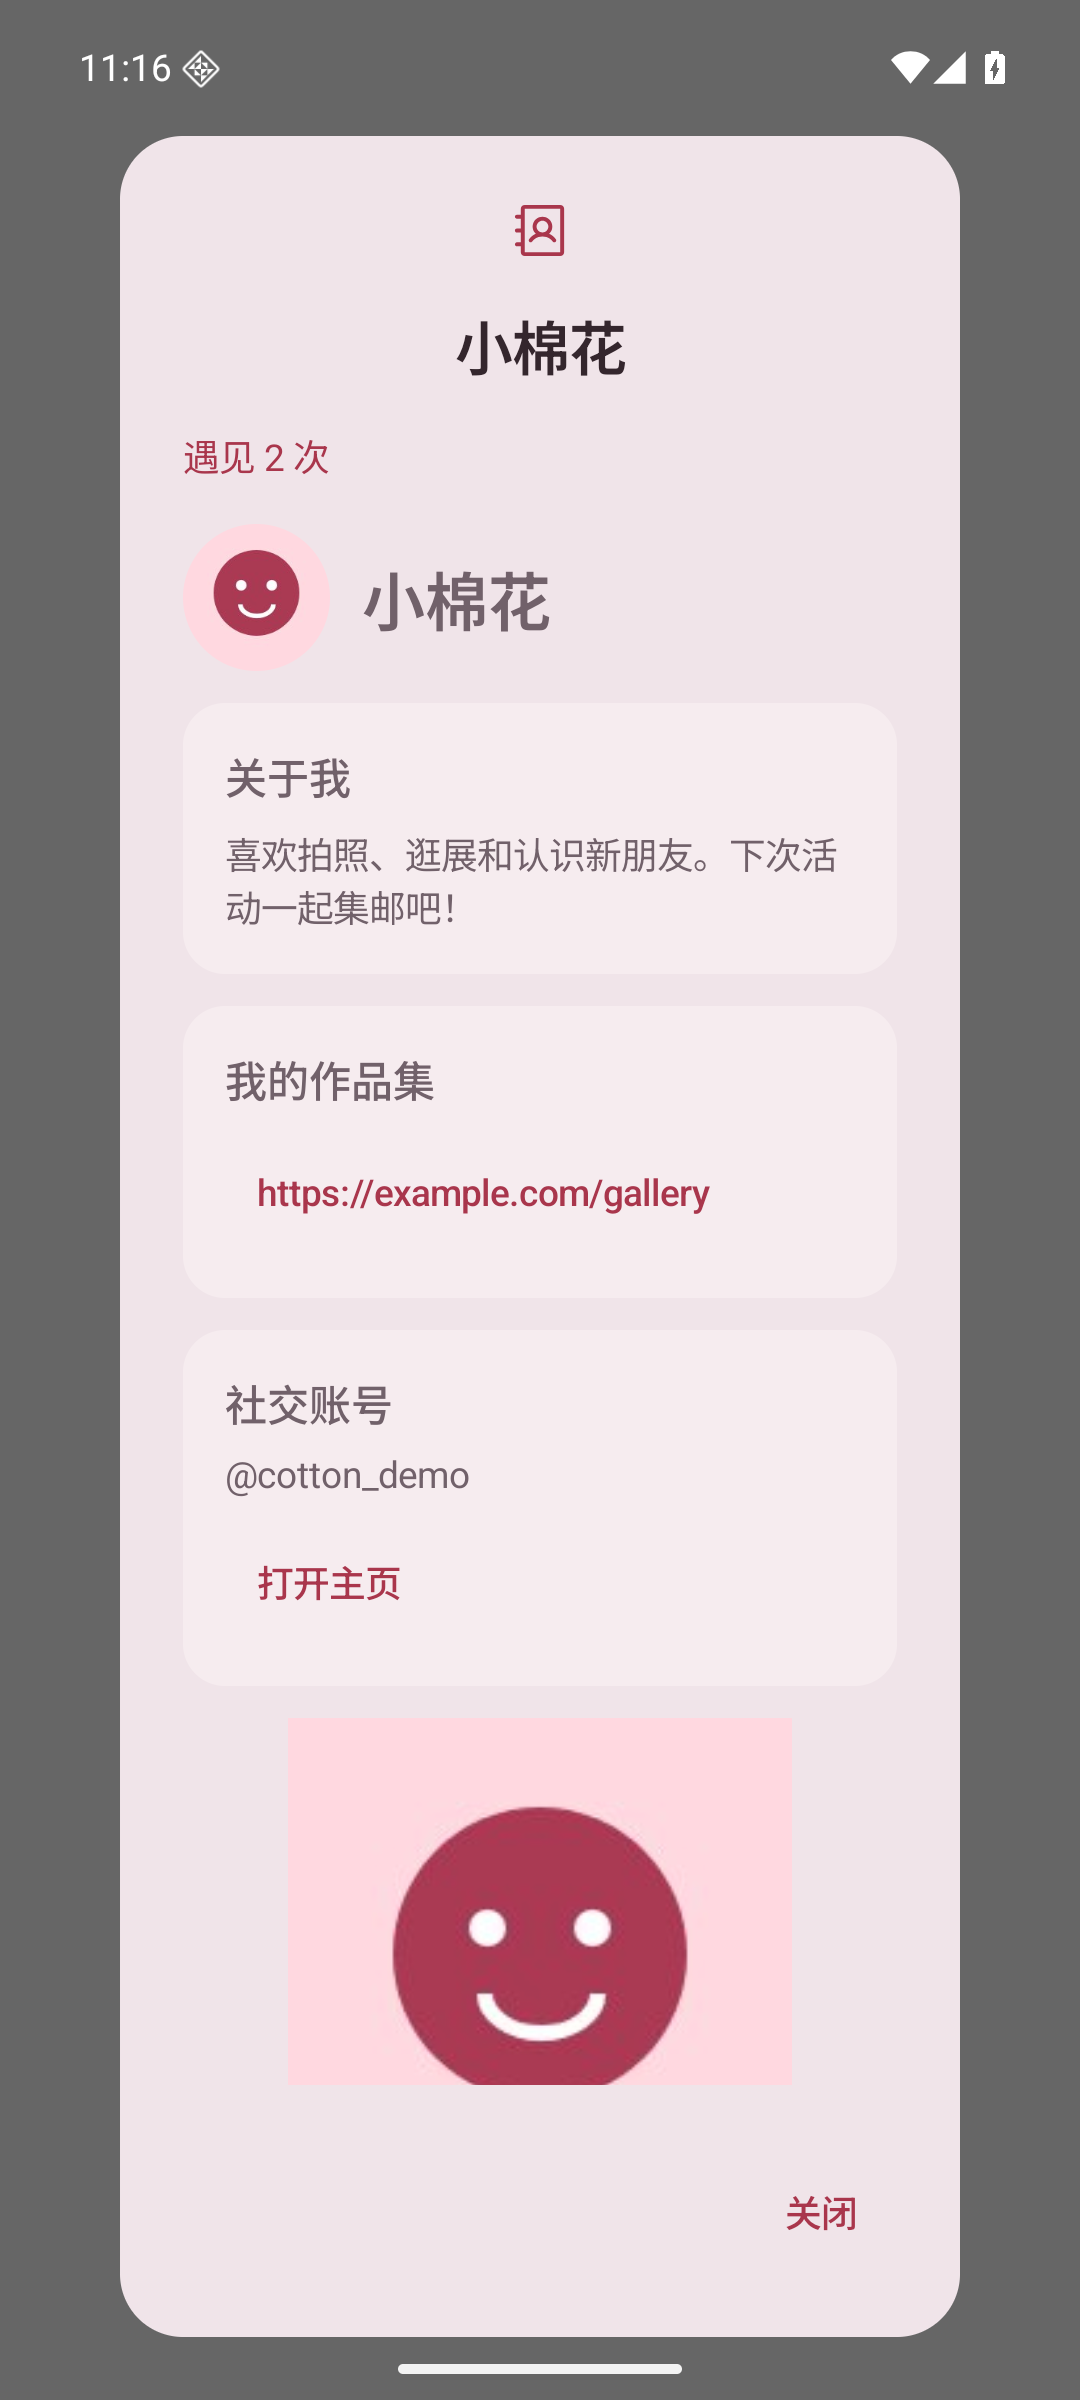
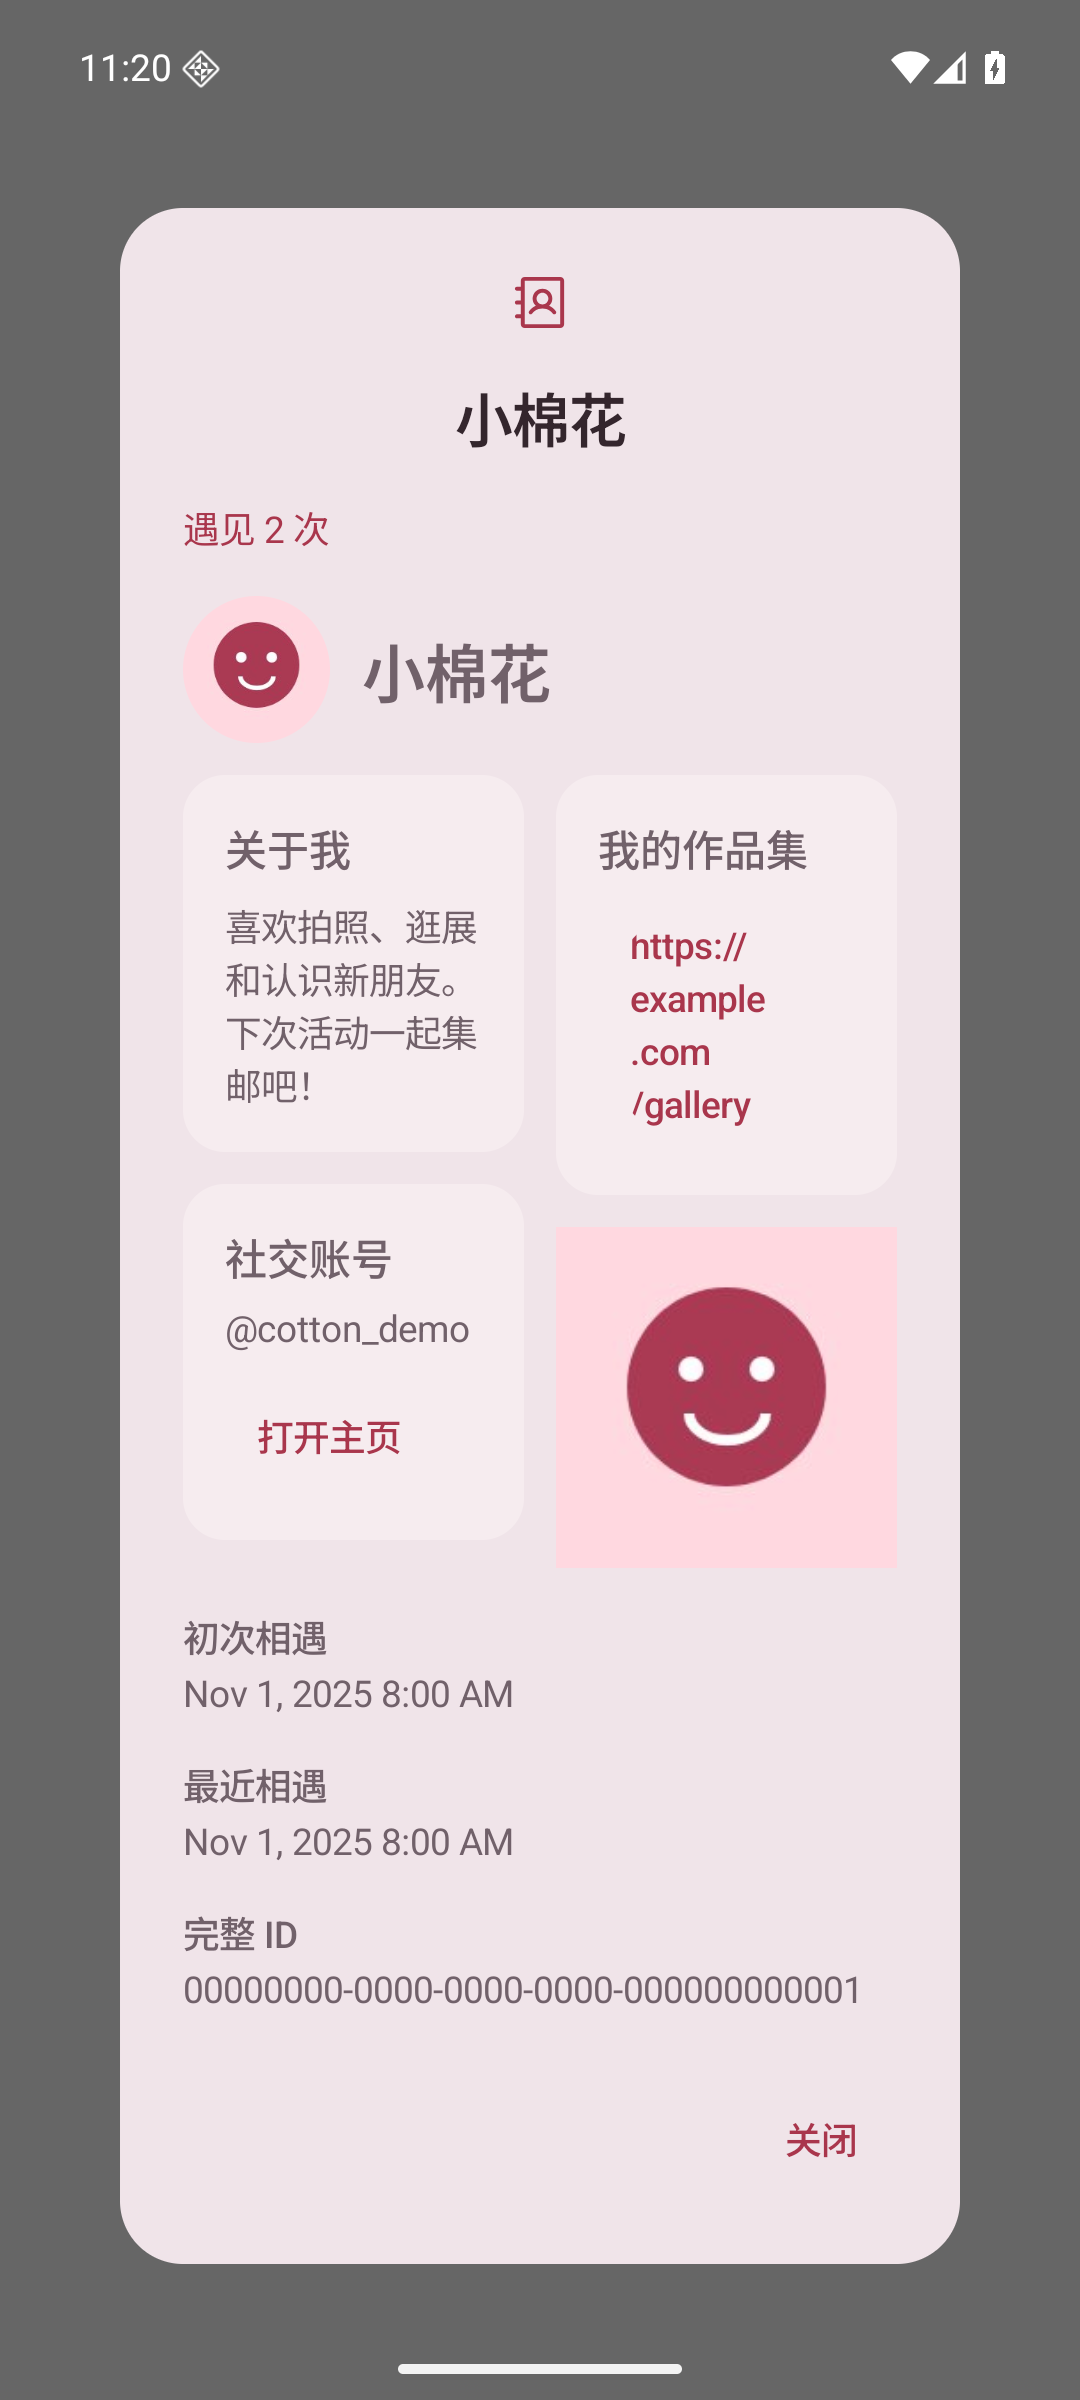
feat: 用户卡片内容采用自适应瀑布流

diff --git a/app/src/main/kotlin/app/pengwa/ui/UserCard.kt b/app/src/main/kotlin/app/pengwa/ui/UserCard.kt
@@ -46,17 +46,19 @@ internal fun UserCardContent(identity: Identity) {
             CardAvatar(identity)
             Text(identity.displayName, style = MaterialTheme.typography.titleLarge)
         }
-        identity.card.blocks.forEach { block ->
-            if (block.type == BlockType.Image) {
-                CardImage(block.image, block.title.ifBlank { "卡片图片" })
-            } else Surface(shape = MaterialTheme.shapes.medium, color = MaterialTheme.colorScheme.surfaceContainer) {
-                Column(Modifier.fillMaxWidth().padding(16.dp), verticalArrangement = Arrangement.spacedBy(8.dp)) {
-                    if (block.title.isNotBlank()) Text(block.title, style = MaterialTheme.typography.titleSmall)
-                    if (block.type != BlockType.Link) Text(block.text, style = MaterialTheme.typography.bodyMedium)
-                    val url = if (block.type == BlockType.Link) block.text else block.url
-                    if (CardCodec.validLink(url)) TextButton(onClick = {
-                        runCatching { uriHandler.openUri(url) }.onFailure { error = "无法打开链接，请检查是否安装浏览器" }
-                    }) { Text(if (block.type == BlockType.Social) "打开主页" else url) }
+        CardMasonry {
+            identity.card.blocks.forEach { block ->
+                if (block.type == BlockType.Image) {
+                    CardImage(block.image, block.title.ifBlank { "卡片图片" })
+                } else Surface(shape = MaterialTheme.shapes.medium, color = MaterialTheme.colorScheme.surfaceContainer) {
+                    Column(Modifier.fillMaxWidth().padding(16.dp), verticalArrangement = Arrangement.spacedBy(8.dp)) {
+                        if (block.title.isNotBlank()) Text(block.title, style = MaterialTheme.typography.titleSmall)
+                        if (block.type != BlockType.Link) Text(block.text, style = MaterialTheme.typography.bodyMedium)
+                        val url = if (block.type == BlockType.Link) block.text else block.url
+                        if (CardCodec.validLink(url)) TextButton(onClick = {
+                            runCatching { uriHandler.openUri(url) }.onFailure { error = "无法打开链接，请检查是否安装浏览器" }
+                        }) { Text(if (block.type == BlockType.Social) "打开主页" else url) }
+                    }
                 }
             }
         }

diff --git a/app/src/debug/kotlin/app/pengwa/ui/CustomCardPreview.kt b/app/src/debug/kotlin/app/pengwa/ui/CustomCardPreview.kt
@@ -48,15 +48,25 @@ private fun imageShapesCard() = Identity(UUID(0L, 1L), "小棉花", CardContent(
     CardBlock(BlockType.Image, "方形小图", image = sampleImage(96, 96)),
 )), cardComplete = true)
 
+private fun masonryCard() = Identity(UUID(0L, 1L), "小棉花", CardContent(sampleImage(), listOf(
+    CardBlock(BlockType.Text, "关于我", "喜欢拍照、逛展和认识新朋友。下次活动一起集邮吧！"),
+    CardBlock(BlockType.Image, image = sampleImage(240, 100)),
+    CardBlock(BlockType.Social, "社交账号", "@cotton_demo", url = "https://example.com/cotton"),
+    CardBlock(BlockType.Image, image = sampleImage(100, 240)),
+    CardBlock(BlockType.Link, "我的作品集", "https://example.com/gallery"),
+    CardBlock(BlockType.Image, image = sampleImage(160, 160, transparent = true)),
+    CardBlock(BlockType.Text, "一起出发", "周末见！"),
+)), cardComplete = true)
+
 @Composable
 internal fun CustomCardPreview(screen: String) {
-    var identity by remember { mutableStateOf(if (screen.startsWith("card-images")) imageShapesCard() else sampleCard()) }
+    var identity by remember { mutableStateOf(when { screen.startsWith("card-masonry") -> masonryCard(); screen.startsWith("card-images") -> imageShapesCard(); else -> sampleCard() }) }
     PreviewSurface {
         when (screen) {
-            "card-editor", "card-images-editor" -> Box(Modifier.systemBarsPadding()) {
+            "card-editor", "card-images-editor", "card-masonry-editor" -> Box(Modifier.systemBarsPadding()) {
                 CardEditorContent(identity, { identity = it }, { CardCodec.validate(identity.card) }, {})
             }
-            "card-received", "card-images-received" -> ContactDetails(Contact(identity.id, identity.displayName, 1761955200000L, 1761955200000L, 2, identity.card)) {}
+            "card-received", "card-images-received", "card-masonry-received" -> ContactDetails(Contact(identity.id, identity.displayName, 1761955200000L, 1761955200000L, 2, identity.card)) {}
             else -> Column(Modifier.systemBarsPadding().verticalScroll(rememberScrollState()).padding(20.dp), verticalArrangement = Arrangement.spacedBy(16.dp)) {
                 Text("我的卡片", style = MaterialTheme.typography.headlineSmall)
                 UserCardContent(identity)

diff --git a/app/src/main/kotlin/app/pengwa/ui/CardMasonry.kt b/app/src/main/kotlin/app/pengwa/ui/CardMasonry.kt
@@ -1,0 +1,34 @@
+package app.pengwa.ui
+
+import androidx.compose.foundation.layout.fillMaxWidth
+import androidx.compose.runtime.Composable
+import androidx.compose.ui.Modifier
+import androidx.compose.ui.layout.Layout
+import androidx.compose.ui.unit.Constraints
+import androidx.compose.ui.unit.constrainHeight
+import androidx.compose.ui.unit.dp
+
+/** At most twelve blocks: measure once, then place each next block in the shortest column.
+ * Own no scroll container so cards also work inside dialogs and the editor's scrolling preview.
+ */
+@Composable
+internal fun CardMasonry(content: @Composable () -> Unit) {
+    Layout(content = content, modifier = Modifier.fillMaxWidth()) { measurables, constraints ->
+        val gap = 12.dp.roundToPx()
+        val minColumnWidth = (128.dp.toPx() * fontScale.coerceAtLeast(1f)).toInt()
+        val columns = ((constraints.maxWidth + gap) / (minColumnWidth + gap)).coerceIn(1, minOf(3, measurables.size.coerceAtLeast(1)))
+        val columnWidth = ((constraints.maxWidth - gap * (columns - 1)) / columns).coerceAtLeast(1)
+        val heights = IntArray(columns)
+        val placements = measurables.map { measurable ->
+            val column = heights.indices.minBy { heights[it] }
+            val y = heights[column]
+            val placeable = measurable.measure(Constraints.fixedWidth(columnWidth))
+            heights[column] += placeable.height + gap
+            Triple(placeable, column * (columnWidth + gap), y)
+        }
+        val height = ((heights.maxOrNull() ?: 0) - gap).coerceAtLeast(0)
+        layout(constraints.maxWidth, constraints.constrainHeight(height)) {
+            placements.forEach { (placeable, x, y) -> placeable.placeRelative(x, y) }
+        }
+    }
+}

diff --git a/app/src/debug/kotlin/app/pengwa/ui/UiPreviewActivity.kt b/app/src/debug/kotlin/app/pengwa/ui/UiPreviewActivity.kt
@@ -14,7 +14,7 @@ class UiPreviewActivity : ComponentActivity() {
         val index = intent.getIntExtra("sample", 0)
         setContent {
             when (screen) {
-                "card", "card-editor", "card-received", "card-images", "card-images-editor", "card-images-received" -> CustomCardPreview(screen)
+                "card", "card-editor", "card-received", "card-images", "card-images-editor", "card-images-received", "card-masonry", "card-masonry-editor", "card-masonry-received" -> CustomCardPreview(screen)
                 "nearby-dedup" -> NearbyDedupPreview(index)
                 "bluetooth" -> BluetoothPagePreview(BluetoothPreviewProvider().values.toList().let { it[index.coerceIn(it.indices)] })
                 "contacts" -> ContactsScreenPreview(ContactsPreviewProvider().values.toList().let { it[index.coerceIn(it.indices)] })

diff --git a/docs/screenshots/card-masonry/README.md b/docs/screenshots/card-masonry/README.md
@@ -1,0 +1,57 @@
+# 自适应瀑布流卡片
+
+卡片内容区按内容高度错落排布：依次把块放入当前较短的列，保持各块自己的高度。
+文字、链接、社媒与图片共用同一布局；小图继续只有图片，不增加标题、底框或裁切。
+
+普通手机使用两列，宽屏最多三列；窄屏、大字体或仅一个内容块时减少到一列。
+编辑操作仍为可排序列表，点击“预览”后使用与收到的卡片相同的瀑布流。布局自身不新增滚动容器。
+
+## 环境与复现
+
+- Android Emulator `sdk_gphone64_x86_64` / AVD `PengWaIcon`，Android 16 / API 36。
+- 普通屏 1080×2400，density 420；窄屏 840×1680（320×640 dp）、1.5 倍字体；宽屏 1600×2560、1 倍字体。
+- 全部截图为运行中的 Debug APK，通过 `adb screencap` 获取，使用真实 Compose 组件。
+- 变更前后使用同一组 7 个测试内容块：文字、链接、社媒、横图、竖图、透明圆形和短文字。
+  姓名、UUID、账号、链接、图片均为合成测试数据，无真实用户信息。
+
+```sh
+adb shell am force-stop app.pengwa.debug
+adb shell am start -n app.pengwa.debug/app.pengwa.ui.UiPreviewActivity --es screen card-masonry
+# 收到的卡片：card-masonry-received
+# 编辑页：card-masonry-editor，然后点击“预览”
+adb shell cmd uimode night yes  # no 恢复浅色
+# 窄屏／大字体：
+adb shell wm size 840x1680
+adb shell settings put system font_scale 1.5
+# 宽屏：
+adb shell settings put system font_scale 1.0
+adb shell wm size 1600x2560
+# 结束后恢复：
+adb shell wm size reset
+adb shell settings put system font_scale 1.0
+```
+
+## 同场景前后对比
+
+| 页面／状态 | 变更前 | 变更后 |
+| --- | --- | --- |
+| 卡片／浅色 | ![](card-before-light.png) | ![](card-after-light.png) |
+| 卡片／深色 | ![](card-before-dark.png) | ![](card-after-dark.png) |
+| 收到的卡片／浅色 | ![](received-before-light.png) | ![](received-after-light.png) |
+| 收到的卡片／深色 | ![](received-before-dark.png) | ![](received-after-dark.png) |
+| 编辑预览／浅色 | ![](editor-preview-before-light.png) | ![](editor-preview-after-light.png) |
+| 编辑预览／深色 | ![](editor-preview-before-dark.png) | ![](editor-preview-after-dark.png) |
+
+## 屏幕适配
+
+窄屏大字体：[卡片](card-narrow-large-font.png)、[收到的卡片](received-narrow-large-font.png)。
+
+宽屏三列：[卡片](card-wide.png)。
+
+## 验证
+
+- `testDebugUnitTest assembleDebug lintDebug` 成功，180 项现有单元测试通过，Lint 无 error。
+- 模拟器检查普通屏的两列错落布局、窄屏大字体的单列回退和宽屏三列布局。
+- 卡片页、详情弹窗、编辑页预览均运行正常，沿用外层滚动，不产生嵌套无限高度错误。
+- 图片维持原比例和透明轮廓，内容块排序与传输格式不变。
+- 本次为展示布局调整；双真机 BLE / NFC / 扫码链路验收仍按原 PR 未验证项保留。

diff --git a/docs/protocol.md b/docs/protocol.md
@@ -47,6 +47,7 @@ NFC 和新版二维码共用 `exchange/PeerDiscovery.kt`：
 - Link 的正文是完整 HTTP(S) URL；Social 的文字是账号，URL 是可选主页。禁止其他协议及带用户凭据的链接。
 - 系统图片选择器导入时先缩小再重新编码，移除原始元数据；小图有 alpha 通道时使用 PNG 保留透明轮廓，其余使用 JPEG。头像最长边 192 像素，小图最长边 384 像素；单图压缩后最多 12 KiB；超限时继续等比例缩小。
 - 接收端校验 Base64、JPEG 或 PNG 首尾标志和体积；展示前检查图像尺寸不超过 1024×1024，不能解码时显示占位提示。
+- 卡片内容按顺序放入当前较短的列，使用 1–3 列自适应瀑布流；随可用宽度和字体比例减少列数，单个块占完整宽度。展示与编辑预览共用布局，编辑操作仍为有序列表。
 - 小图块在预览和收到的卡片中只展示图片，不展示标题、卡片底框或圆角裁剪；编辑区不提供小图标题输入。横图、竖图和透明不规则图按原比例缩放到可用空间。旧标题保留作无障碍描述，不改变原数据格式。
 - 整张编码后的卡片上限 96 KiB；超限保存失败，编辑草稿保留。
 

diff --git a/README.md b/README.md
@@ -11,7 +11,7 @@
 
 ## 当前开发版本：可自定义用户卡片
 
-用户卡片新增头像，以及可添加、编辑、删除、排序的文字、链接、社媒和小图内容块，支持保存和预览。小图只展示图片，保留原始比例和透明轮廓，不加标题或底框。
+用户卡片新增头像，以及可添加、编辑、删除、排序的文字、链接、社媒和小图内容块，支持保存和预览。内容区采用自适应瀑布流，让文字、链接、社媒和小图按各自高度错落排布；小图保留原始比例和透明轮廓，不加标题或底框。
 **扫码、附近蓝牙列表和 NFC 碰一碰都只负责识别对方，完整卡片统一通过蓝牙 BLE 分块交换。**
 只有完整接收并确认后才入集邮册；二维码与 NFC 识别本身不再导入名片。扫码后需对方确认蓝牙申请；NFC 双向识别可短时自动确认对应设备。
 

diff --git a/docs/screenshots/custom-card/README.md b/docs/screenshots/custom-card/README.md
@@ -100,3 +100,5 @@ bash gradlew testDebugUnitTest assembleDebug lintDebug --console=plain
 这些截图证明运行界面和本地操作，不代表双机通信已验收。
 
 小图纯图片展示、透明 PNG 导入和自由比例的补充验证见 [小图截图](../image-only/README.md)。
+
+内容区瀑布流与屏幕适配的前后对比见 [瀑布流截图](../card-masonry/README.md)。

diff --git a/docs/screenshots/image-only/README.md b/docs/screenshots/image-only/README.md
@@ -44,3 +44,5 @@ adb shell am start -n app.pengwa.debug/app.pengwa.ui.UiPreviewActivity --es scre
 ![](transparent-import-after.png)
 
 本次不改变 BLE 传输流程；双真机完整链路仍待原 PR 所列硬件验收。
+
+图片在卡片内容区参与自适应瀑布流；布局变化的同场景对比见 [瀑布流截图](../card-masonry/README.md)。
